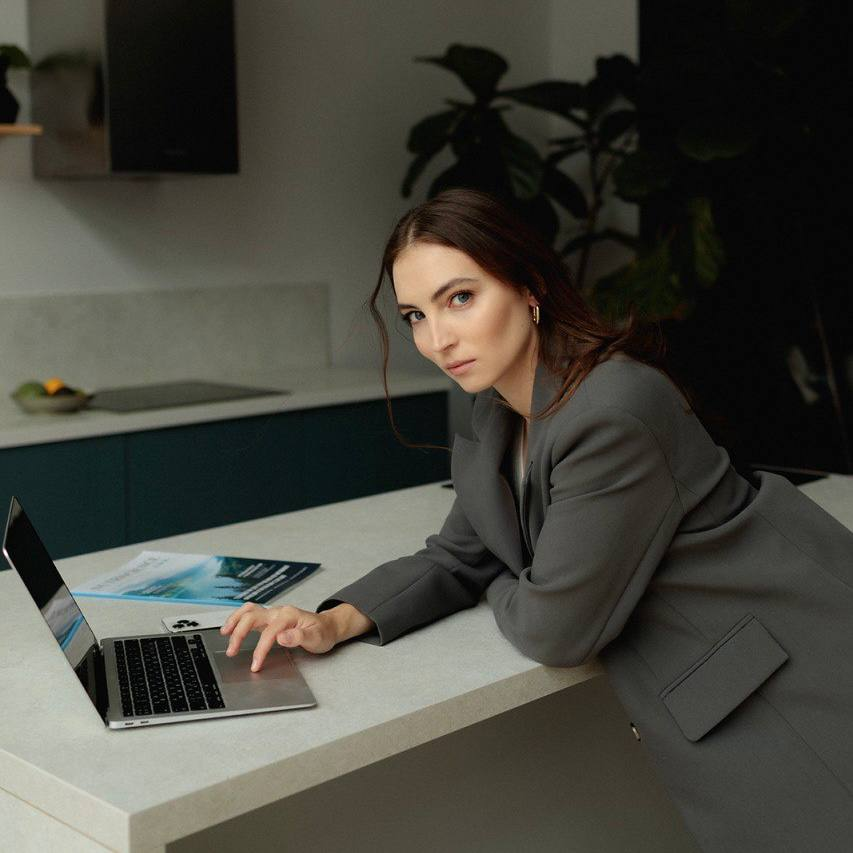
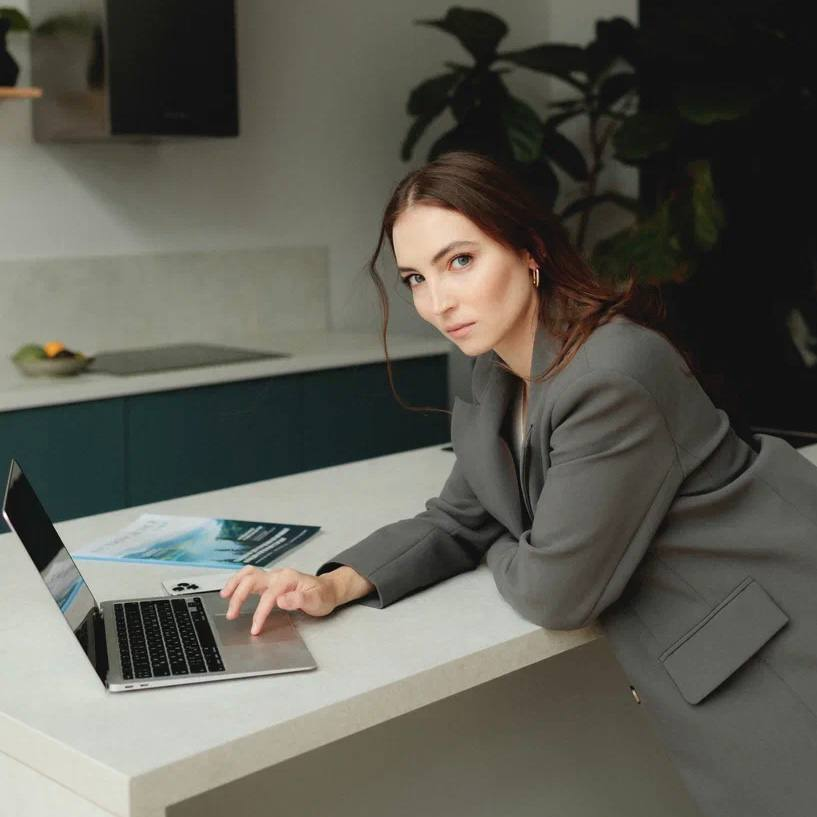
changes

diff --git a/src/JS/diplomTexts.js b/src/JS/diplomTexts.js
@@ -16,6 +16,8 @@ import Diplom_Fivthteen from "/diploms/15.jpg";
 import Diplom_Sixtenn from "/diploms/16.jpg";
 import Diplom_Seventeen from "/diploms/17.jpg";
 import Diplom_Eighthteen from "/diploms/18.jpg";
+import Diplom_Nineteen from "/diploms/19.png";
+import Diplom_Twenty from "/diploms/20.jpg";
 
 export const DiplomTexts = [
     {
@@ -36,6 +38,11 @@ export const DiplomTexts = [
     {
         id: 4,
         image: Diplom_Four,
+        content: "2022 - Международный Институт Интегративной Нутрициологии, сертификат о прохождении курса “База фитнес-нутрициологии и технология жиросжигания”",
+    },
+    {
+        id: 20,
+        image: Diplom_Twenty,
         content: "2022 - Международный Институт Интегративной Нутрициологии, сертификат о прохождении курса “База фитнес-нутрициологии и технология жиросжигания”",
     },
     {
@@ -96,6 +103,11 @@ export const DiplomTexts = [
     {
         id: 16,
         image: Diplom_Eighthteen,
+        content: "2022 - Международный Институт Интегративной Нутрициологии, сертификат о прохождении курса “База фитнес-нутрициологии и технология жиросжигания”",
+    },
+    {
+        id: 17,
+        image: Diplom_Nineteen,
         content: "2022 - Международный Институт Интегративной Нутрициологии, сертификат о прохождении курса “База фитнес-нутрициологии и технология жиросжигания”",
     },
 ]

diff --git a/src/JS/promoTexts.js b/src/JS/promoTexts.js
@@ -57,7 +57,7 @@ export const promocodes = [
         icon: createSVGElement(`<svg role="none" data-mode="stroke" xmlns="http://www.w3.org/2000/svg" width="42" height="42" viewBox="0 0 24 24" stroke-width="1" stroke="var(--mainGreen)" fill="none" stroke-linecap="round" stroke-linejoin="round"><path d="M6.8 11a6 6 0 1 0 10.396 0l-5.197-8-5.2 8z"></path></svg>`),
         title: "NAPOLEZNOM",
         content: "— промокод на скидку 5% на всю продукцию PreventEra",
-        link: "https://preventera.pro/",
+        link: "https://preventera.pro/?refId=3708",
     },
 ];
 

diff --git a/src/components/Images.jsx b/src/components/Images.jsx
@@ -1,5 +1,6 @@
 import AboutMePhoto from '/AboutMe.jpg';
 import AboutHeader from "/AboutHeader.jpg";
+import AboutHeaderAboutMe from '/AboutHeaderAboutMe.jpg';
 import IntroImage from "/Intro-photo.jpg";
 import IceCream from "/ice-cream.png";
 import MailoutImage from "/Mailout-photo_new.jpg";
@@ -15,6 +16,7 @@ const Image = {
     IntroImage,
     AboutMePhoto,
     AboutHeader,
+    AboutHeaderAboutMe,
     IceCream,
     MailoutImage,
     ButtonBackground,

diff --git a/src/sections/education&about.jsx b/src/sections/education&about.jsx
@@ -190,7 +190,7 @@ export function AboutSection(){
         <Section>
             <AboutInner>
                 <AboutPhoto>
-                    <img src={Image.AboutHeader} alt="" />
+                    <img src={Image.AboutHeaderAboutMe} alt="" />
                 </AboutPhoto>
                 <AboutText>
                     <div >
